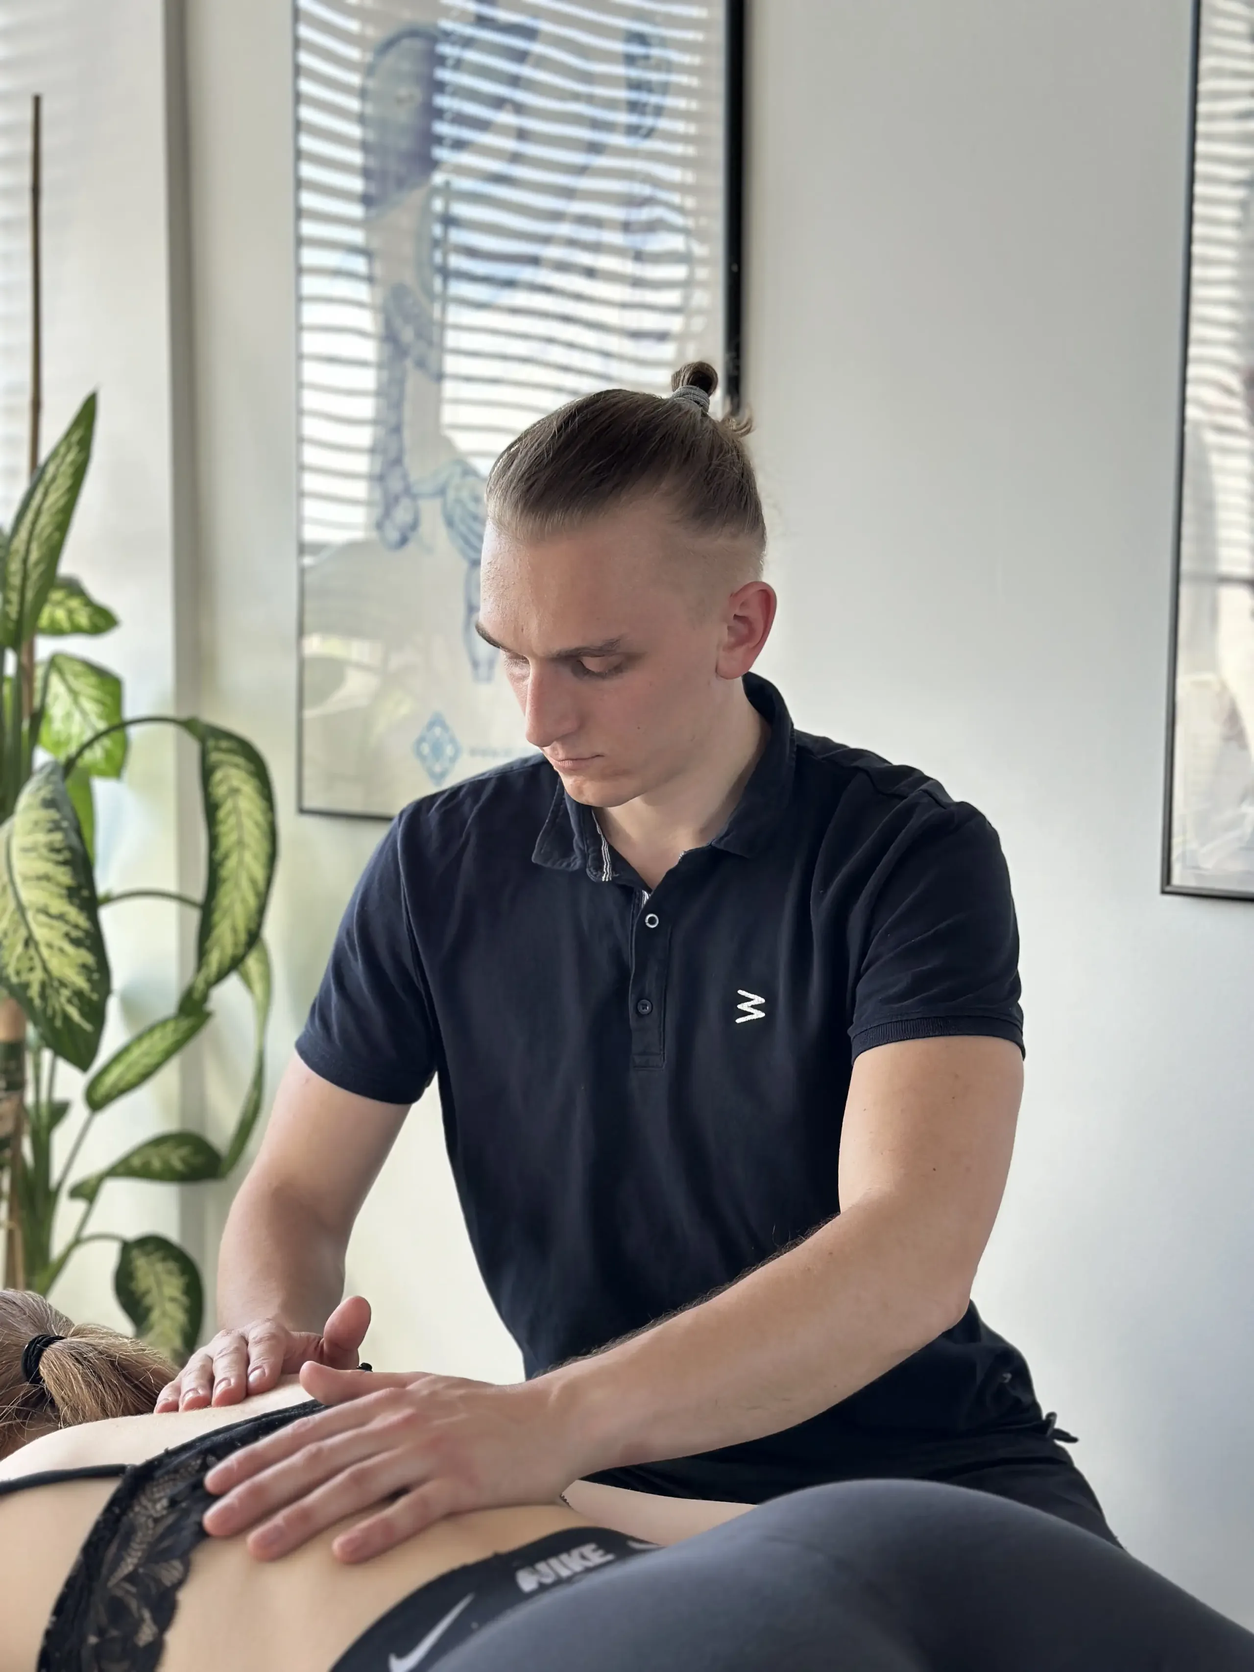
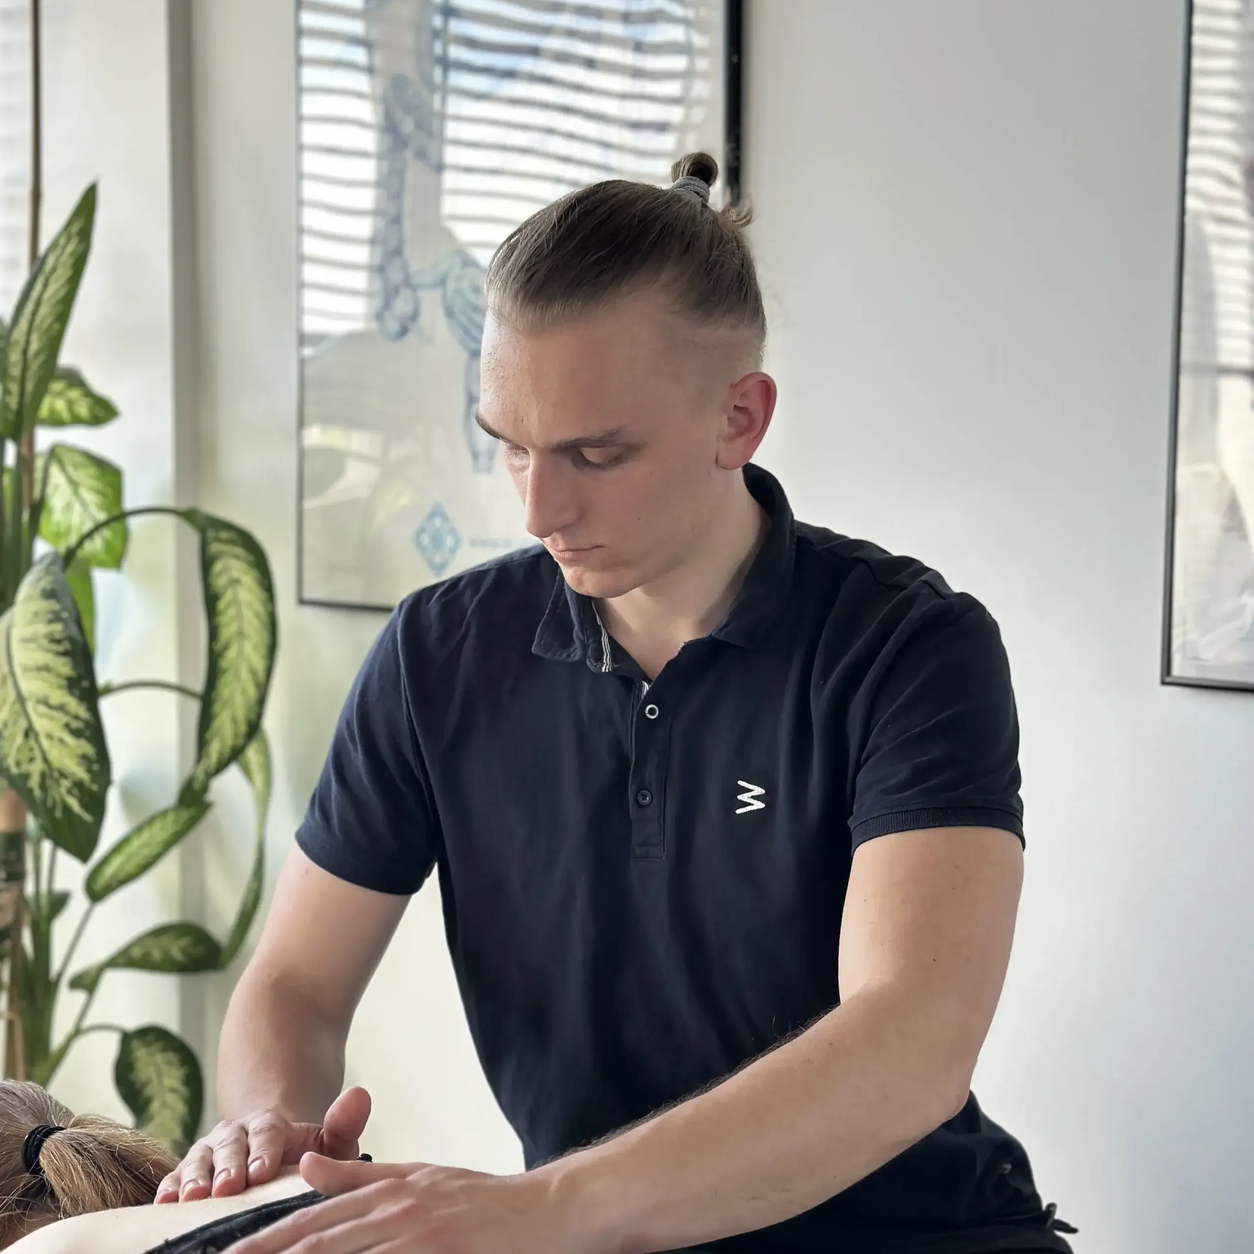
perf: /masaz RWD, image loading and structured data
Page overflow was already zero at all 23 widths from 320 to 1920 and
stayed zero. Every fault on this page was inside a box, which is why none
of them had been seen.

A quoted review contains kobido/fizjoterapeutyczne/relaksacyjne, 38
characters with no space and no default break opportunity at a slash, so
its min-content width is 335px. As a shrink-to-fit flex item the
paragraph took that width whatever the slide was and overran a 252px
slide by 66px at a 1024 viewport, printing fragments of itself over the
testimonial beside it. The copy is quoted verbatim, so the fix is CSS.

break-words alone does not do it, and that is the reusable part: a
browser ignores overflow-wrap: break-word when it computes an element's
min-content contribution, so the item is still sized to the unbreakable
word and overflows without ever breaking it. The width has to be pinned
too. The same pair goes onto SectionHeading, where at 320 the container's
content box is 288px while "kompleksowego" needs 317px and "KLASYCZNY"
303px, and both were sliced by the viewport edge.

Accordion's squareMedia only applied lg:aspect-square; below that the box
fell back to min-h-[18rem] and measured 720x288 at a 768 viewport, a
2.5:1 letterbox that keeps a band across the chest and crops the head
off, which is the opposite of what the flag is for. It is square at every
width now, matching the reference's own unprefixed ratio1-1. TextMedia's
[…]

diff --git a/src/app/[locale]/masaz/page.tsx b/src/app/[locale]/masaz/page.tsx
@@ -9,7 +9,9 @@ import { TextMedia } from "@/components/centrum/TextMedia";
 import { Accordion, type AccordionItemData } from "@/components/centrum/Accordion";
 import { TestimonialCarousel, type Testimonial } from "@/components/centrum/TestimonialCarousel";
 import { NewsletterSignup } from "@/components/centrum/NewsletterSignup";
+import { blurFor } from "@/lib/static-blur";
 import { pageMetadata } from "@/lib/metadata";
+import { breadcrumbJsonLd, serviceJsonLd } from "@/lib/structured-data";
 
 type Section = { heading: string; body: string; image: string };
 type Person = { name: string; role: string; body: string; image: string };
@@ -17,7 +19,15 @@ type Person = { name: string; role: string; body: string; image: string };
 export async function generateMetadata({ params }: { params: Promise<{ locale: string }> }) {
   const { locale } = await params;
   const t = await getTranslations({ locale, namespace: "Massage" });
-  return pageMetadata({ locale, path: "/masaz", title: t("title") });
+  return pageMetadata({
+    locale,
+    path: "/masaz",
+    // A separate, longer title for the tab and the search result: the on-page `<h1>` keeps the
+    // one-word "Masaż", which as a `<title>` carried no locality and no treatment name.
+    title: t("seoTitle"),
+    // The route shipped a title and nothing else, so no `og:description` either.
+    description: t("metaDescription"),
+  });
 }
 
 type PageProps = { params: Promise<{ locale: string }> };
@@ -42,6 +52,7 @@ export default async function MassagePage({ params }: PageProps) {
   // Enables static rendering for this route; see the note in [locale]/layout.tsx.
   setRequestLocale(locale);
   const t = await getTranslations("Massage");
+  const tCommon = await getTranslations("common");
   const tFooter = await getTranslations("Footer");
 
   const sections = t.raw("sections") as Section[];
@@ -54,10 +65,52 @@ export default async function MassagePage({ params }: PageProps) {
     heading: person.name,
     body: `${person.role}\n\n${person.body}`,
     image: person.image,
+    // `Accordion` is a client component and `static-blur` is server-only, so the placeholder
+    // travels as data; see the note on `AccordionItemData.imageBlur`.
+    imageBlur: blurFor(person.image),
+  }));
+
+  /** The four treatments, each a named variant of the one service rather than a page of its own. */
+  const variants = sections.map((section) => ({
+    // Trailing full stops are how this copy is written ("Masaż klasyczny."); a schema `name` reads
+    // better without one, and it is the same string either way.
+    name: section.heading.replace(/\.$/, ""),
+    path: "/masaz",
   }));
 
   return (
     <>
+      {/* A `Service` naming the four treatments, plus the trail back to the homepage. Both hang off
+        * the sitewide business by `@id`; see `src/lib/structured-data.ts` for why the catalogue
+        * carries no `Offer`: the prices live on /cennik and this page states none. */}
+      <script
+        type="application/ld+json"
+        dangerouslySetInnerHTML={{
+          __html: JSON.stringify(
+            serviceJsonLd(locale, {
+              name: t("title"),
+              description: t("metaDescription"),
+              path: "/masaz",
+              city: tFooter("addressLine3").replace(/^[0-9-]+\s*/, "").split(",")[0],
+              variants,
+            }),
+          ),
+        }}
+      />
+      <script
+        type="application/ld+json"
+        dangerouslySetInnerHTML={{
+          __html: JSON.stringify(
+            breadcrumbJsonLd(
+              [
+                { name: tCommon("breadcrumbHome"), path: "/" },
+                { name: t("title"), path: "/masaz" },
+              ],
+              locale,
+            ),
+          ),
+        }}
+      />
       <PageHero
         title={t("title")}
         titleSize="display"

diff --git a/src/components/centrum/TestimonialCarousel.tsx b/src/components/centrum/TestimonialCarousel.tsx
@@ -54,7 +54,18 @@ export function TestimonialCarousel({ heading, items }: TestimonialCarouselProps
               <span aria-hidden className="font-serif text-5xl leading-none text-brand-navy">
                 &ldquo;
               </span>
-              <p className="text-body">{item.quote}</p>
+              {/* These are real reviews and one contains "kobido/fizjoterapeutyczne/relaksacyjne",
+                * 38 characters with no space and no default break opportunity at a slash. Its
+                * min-content width is 335px, so it overran a 252px slide by 66px at a 1024 viewport
+                * and painted fragments of itself across the neighbouring testimonial. The copy is
+                * quoted verbatim, so the fix belongs here.
+                *
+                * **`w-full` is half the fix.** `break-words` (`overflow-wrap: break-word`) is
+                * ignored when the browser computes an element's min-content contribution, so as a
+                * shrink-to-fit flex item this paragraph still got sized to that 335px word and
+                * simply overflowed without ever breaking it. Pinning it to the slide is what forces
+                * the break. Inert for every quote that already fits. */}
+              <p className="w-full break-words text-body">{item.quote}</p>
               {item.name ? (
                 <footer className="text-label font-light uppercase tracking-[1px]">{item.name}</footer>
               ) : null}

diff --git a/src/components/ui/SectionHeading.tsx b/src/components/ui/SectionHeading.tsx
@@ -74,7 +74,18 @@ export function SectionHeading({
     <Tag
       style={style}
       className={cn(
-        "font-normal text-brand-navy",
+        // A floor, not a style: at a 320 viewport the container's content box is 288px and a single
+        // Polish word at the 39.5px mobile step needs more than that ("kompleksowego" 317px,
+        // "KLASYCZNY" 303px), so the heading was sliced off by the viewport edge on /masaz.
+        // Wrapping cannot save a single word, so it has to be allowed to break.
+        //
+        // **`w-full` is half of it.** `break-words` is ignored when the browser computes an
+        // element's min-content contribution, so a heading that is a shrink-to-fit flex item (every
+        // `CenteredBand`, every `TextMedia` column) was still sized to that long word and overflowed
+        // without breaking. Both are inert wherever the longest word already fits, and `display`
+        // sizes are untouched in practice: they carry `whitespace-nowrap` and are fitted by
+        // container query, and they already laid out full width.
+        "w-full break-words font-normal text-brand-navy",
         uppercase && "uppercase",
         // Fitted headings stay on one line, matching the reference's `wsnw`.
         chars > 0 && "whitespace-nowrap",

diff --git a/src/components/centrum/Accordion.tsx b/src/components/centrum/Accordion.tsx
@@ -172,8 +172,13 @@ function AccordionRow({
             {item.image ? (
               <div
                 className={cn(
-                  "relative min-h-[18rem] w-full",
-                  squareMedia ? "lg:aspect-square lg:min-h-0" : "lg:min-h-full",
+                  "relative w-full",
+                  // Square at **every** width, not just from `lg`. The `min-h-[18rem]` fallback made
+                  // this box 720x288 at a 768 viewport, a 2.5:1 letterbox: a portrait shown there
+                  // keeps a horizontal band across the chest and crops the head off entirely, which
+                  // is the opposite of what `squareMedia` exists to prevent. The reference's own
+                  // `ratio1-1` carries no breakpoint prefix either.
+                  squareMedia ? "aspect-square" : "min-h-[18rem] lg:min-h-full",
                 )}
               >
                 <Image

diff --git a/src/components/centrum/TextMedia.tsx b/src/components/centrum/TextMedia.tsx
@@ -89,7 +89,10 @@ export function TextMedia({
 
   return (
     <section className="border-t border-brand-navy-soft bg-background">
-      <Container className="grid gap-8 lg:grid-cols-2 lg:items-stretch lg:gap-16">
+      {/* `grid-cols-1` is not redundant: with no base column count the single implicit track is
+        * `auto`, floored at the widest word in the cell, and at a 320 viewport this row measured
+        * 303px inside a 288px container. Inert from 360 up. */}
+      <Container className="grid grid-cols-1 gap-8 lg:grid-cols-2 lg:items-stretch lg:gap-16">
         {imagePosition === "left" ? (
           <>
             {imageBlock}

diff --git a/docs/migration-tracker.md b/docs/migration-tracker.md
@@ -146,7 +146,53 @@ Two things about this app's shape made it harder than it looks, both worth knowi
 | Scraped route | Target route | Components | i18n | Visual QA | Status |
 |---|---|---|---|---|---|
 | `/cennik/` | `/cennik/` | Reused: PageHero, Accordion (9 price rows; the component gained `cta`/`note`/`groups` and now `panelHeading` for this page). **No newsletter block**: the reference has none here | PL: done / EN: done | Two-way check plus a dedicated price audit, all 46 distinct figures verified present; re-verified against the live site 2026-07-26 | Bilingual |
-| `/masaz/` | `/masaz/` | Built 2026-07-28. Hero, intro band, four treatment panels (all text-left / image-right, **no alternation**: the reference gives all four identical wrapper classes), team accordion of three therapists, testimonial carousel, contact block with the brand watermark. **The reference's six WooCommerce buttons are deliberately gone**, see the note below | PL: done / EN: done | Compared block by block against the mirror: **53 of 54** non-shop content chunks present, 10 of 10 content images, bios carry the reference's own paragraph breaks. The one gap is `ZAMKNIJ`, which our accordion renders only when a row is open (React) where the reference ships both labels and toggles in CSS | Bilingual |
+| `/masaz/` | `/masaz/` | Built 2026-07-28. Hero, intro band, four treatment panels (all text-left / image-right, **no alternation**: the reference gives all four identical wrapper classes), team accordion of three therapists, testimonial carousel, contact block with the brand watermark. **The reference's six WooCommerce buttons are deliberately gone**, see the note below | PL: done / EN: done | Compared block by block against the mirror: **53 of 54** non-shop content chunks present, 10 of 10 content images, bios carry the reference's own paragraph breaks. The one gap is `ZAMKNIJ`, which our accordion renders only when a row is open (React) where the reference ships both labels and toggles in CSS. **RWD/media/SEO pass 2026-07-30**, see the notes below | Bilingual |
+
+### `/masaz` RWD, media and SEO, 2026-07-30
+
+Swept at 23 widths from 320 to 1920, every therapist row opened at six of them.
+`scrollWidth === clientWidth` at all 23 before and after; the faults were all inside boxes, which
+is why nobody had seen them.
+
+- **A quoted review was painting across its neighbour.** One Google review contains
+  `kobido/fizjoterapeutyczne/relaksacyjne`, 38 characters with no space and no default break
+  opportunity at a slash, so its min-content width is 335px. As a shrink-to-fit flex item the
+  paragraph took that width whatever the slide was, and overran a 252px slide by **66px at a 1024
+  viewport**, printing fragments of itself over the testimonial next to it. The copy is quoted
+  verbatim, so `w-full break-words` on the quote is the fix.
+- **`break-words` on its own would not have fixed it, and this is the reusable part.** A browser
+  ignores `overflow-wrap: break-word` when it computes an element's min-content contribution, so a
+  shrink-to-fit flex item is still *sized* to the unbreakable word and simply overflows without ever
+  breaking it. The width has to be pinned as well: `w-full break-words`. The same pair went onto
+  `SectionHeading`, where at a 320 viewport "kompleksowego" (317px) and "KLASYCZNY" (303px) did not
+  fit the container's 288px content box and were sliced by the viewport edge.
+- **The therapist portraits were a letterbox on tablets.** `Accordion`'s `squareMedia` only applied
+  `lg:aspect-square`, and below that the box fell back to `min-h-[18rem]`: **720x288 at a 768
+  viewport, 2.5:1**, which keeps a band across the chest and crops the head off entirely. That is the
+  exact thing the flag exists to prevent. Square at every width now, matching the reference's own
+  unprefixed `ratio1-1`.
+- **`TextMedia`'s grid took `grid-cols-1`**, without which its single implicit `auto` track was
+  floored at the widest word and the row measured 303px inside a 288px container at 320.
+- **Four source images were carrying rows the page can never display**, so
+  `scripts/crop-to-display-aspect.mjs` crops them to the tallest box each one appears in: the hero
+  from 2:3 to the 4:3 of `PageHero`'s narrowest breakpoint, two portraits to the square the accordion
+  now uses. Centred, so it is exactly the region `object-cover` was already painting. **33 to 36% off
+  the hero at every width, 20 to 21% off one portrait, 16 to 18% off the other, 16% across the four
+  files.** `wiktoria-wysocka.webp` is already square and is left alone. Quality 80 was picked by
+  measurement, not taste: it reproduces the mirror's own bytes per pixel, and RMSE against the cropped
+  original is 1.20 to 1.73 on 0-255, the same band as the blog's `cardWide` pre-crop.
+- **Blur placeholders** now cover `public/images/masaz` (map 91 entries), with the three accordion
+  portraits taking theirs as an `imageBlur` prop because `static-blur` is server-only. The two
+  full-bleed plates (`hub-mark`, `jak-skorzystac`) are deliberately left without one: both are blank
+  cream at under 10KB and arrive before a placeholder would help, the same call `CenteredBand`
+  already documents.
+- **SEO:** an SEO title and a meta description on a route that had a bare one-word `<title>` and no
+  description at all, plus `Service` with the four treatments as an `OfferCatalog` and a
+  `BreadcrumbList`. The catalogue entries all point at `/masaz` because none of the four has a page
+  of its own; prices stay out, they live on `/cennik`.
+- **Measured, deliberately not fixed:** at 320 two `shrink-0` rows in the shared header and footer
+  are 7px and 13px wider than the container's content box. They are not this page's, they are
+  contained by `overflow-x: clip`, and nothing is visibly cut.
 | `/kontakt/` | `/kontakt/` | Reused: PageHero (display title, **left**-aligned), MeetUsCta. **The reference page has no content of its own**, see the note below | PL: done / EN: done | Composed from copy already verified elsewhere; nothing invented | Bilingual |
 | `/instrukcja/` | `/instrukcja/` | New: none. Reused: PageHero, StatementSection ×8 (3 of them a 3-up bullet row), FullBleedImage ×4, CenteredBand, MediaCardCta ×2. 7 images copied. No newsletter block: the reference has none | PL: done / EN: done | Two-way check vs. the live site: 0 missing headings | Bilingual |
 

diff --git a/AI_NOTES.md b/AI_NOTES.md
@@ -13,6 +13,18 @@
 
 -->
 
+## 2026-07-30: /masaz RWD, media, lazy loading, structured data
+
+- **Done:** `/masaz` swept at 23 widths from 320 to 1920, with every therapist row opened at six of them. Page overflow was already zero at all 23 and stayed zero; **every fault on this page was inside a box**, which is why none had been seen. Fixed: a quoted review painting across its neighbour, therapist portraits letterboxed to 2.5:1 on tablets, and two headings sliced by the viewport edge at 320. Four source images cropped to the aspect the page actually displays, blur placeholders for `public/images/masaz`, SEO title + description + `Service`/`BreadcrumbList` JSON-LD.
+- **`break-words` does nothing for a shrink-to-fit flex item, and that cost real time.** A browser **ignores `overflow-wrap: break-word` when computing min-content contribution**, so the element is still *sized* to the unbreakable word and overflows without ever breaking it. First attempt added `break-words` alone to the testimonial and to `SectionHeading` and **every measurement came back byte-identical**. The pair is `w-full break-words`: pin the width, then allow the break. Same shape as the `w-full` on `StatementSection` from the `/bodylab` pass, and it is now on `SectionHeading` itself, so every heading on the site has the floor.
+- **What it was breaking:** one Google review contains `kobido/fizjoterapeutyczne/relaksacyjne` — 38 characters, no space, and a slash is not a break opportunity — giving the paragraph a 335px min-content width. It overran a 252px carousel slide by **66px at 1024** and printed fragments of itself over the testimonial beside it. And at 320 the container's content box is 288px while "kompleksowego" needs 317px and "KLASYCZNY" 303px.
+- **`squareMedia` was only square from `lg`.** Below that `Accordion` fell back to `min-h-[18rem]`, so at a 768 viewport a portrait sat in a **720x288, 2.5:1** box: a band across the chest with the head cropped off, which is the exact failure the flag was added to prevent. The reference's own `ratio1-1` carries no breakpoint prefix.
+- **New: `scripts/crop-to-display-aspect.mjs`.** `next/image` picks a variant by **width only**, so a 2560x3840 portrait in a box the page renders at 4:3 still ships every row and `object-cover` throws two thirds away. Cropping the source to the tallest box it appears in is **visually lossless by construction** (cover centres, a centred crop keeps exactly those pixels) and saves at every breakpoint: **33-36% off the hero, 20-21% and 16-18% off two portraits, 16% across the four files**, 165KB off the repo. This complements, and does not contradict, the earlier "do not re-encode sources" note: shrinking *width* is pointless because the optimizer already resizes, removing *rows nobody can see* is not.
+- **Quality 80 came from measurement.** It reproduces the mirror's own bytes per pixel (0.95 to 1.14x); RMSE against the cropped original is 1.20 to 1.73 on 0-255, the same band as the blog's `cardWide`. Quality 90, tried first, made one file **16% larger than the uncropped original**.
+- **Measured:** headed browser at 390 fetches **34.1KB of images on arrival** (hero plus the first treatment photo) and 153.3KB for the whole page after scrolling all of it; 8 blur placeholders and 10 lazy images in the served HTML.
+- **Watch out, three environment traps in one session:** (1) `.next/cache/images` survives a rebuild and is keyed in a way that kept serving **pre-crop variants**, so the first "after" measurements showed portraits still at 0.75 — clear that directory after touching anything under `public/images`. (2) Handing sharp a **path** rather than a buffer leaves the file open in its cache, and the overwrite then fails on Windows with `EPERM`/`UNKNOWN` on one file out of three, which reads exactly like a permissions problem and is not. (3) The Postgres container was found **stopped** mid-session and every build failed with "cannot connect to Postgres"; `docker compose up -d` restarted the existing container with its data intact — never add `-v`.
+- **Deliberately not fixed:** at 320 two `shrink-0` rows in the shared header and footer are 7px and 13px wider than the container's content box, contained by `overflow-x: clip` and not visibly cut. The homepage still shows its own 12px residual at 360 from the closed drawer, unchanged by any of this.
+
 ## 2026-07-30: media create — no sidebar, short copy, back to library
 
 - **Done:** create/edit form has no right Placeholder column (`blurDataURL` is `admin.hidden`). Field labels/descriptions tightened to Admin UI copy rules. Successful create redirects to the library list (`/admin/c/media`) via `MediaSaveButton` + `MediaGotoLibrary` session marker.

diff --git a/CLAUDE.md b/CLAUDE.md
@@ -76,6 +76,7 @@ Check here before building anything: don't duplicate what exists.
 | Blog teasers on service pages | `src/components/centrum/BlogTeasers.tsx` | Three posts from a matching category at the foot of five service pages |
 | Image placeholders (LQIP) | `scripts/import-blur-placeholders.ts`, `blurDataURL` on Media | Harvested from the mirror's own `<picture>` backgrounds. 189/230 covered |
 | Image placeholders for static pages | `scripts/generate-blur-placeholders.mjs`, `src/lib/static-blur.ts` | The blog's come from Payload; the marketing pages have no CMS, so theirs are generated into `static-blur.json` (18 entries, 3.4KB). **Server components only:** a client component takes the string as a prop, see `FullBleedVideo` |
+| Cropping a static image to the aspect it is shown at | `scripts/crop-to-display-aspect.mjs` | `next/image` picks a variant by **width only**, so a 2:3 portrait in a 4:3 box still ships every row and `object-cover` throws them away. Crops the source to the tallest box it appears in, centred, so it is visually lossless. **The manifest in the script is the contract:** make a component's aspect ratio taller and the crop becomes wrong. `DRY=1` to preview |
 | Hero video encodes | `scripts/optimize-hero-video.mjs`, `public/videos/` | 720px and 1280px VP9/h264 pairs plus a poster, no audio. **8388KB down to 734KB on a phone.** `hero-source.mp4` is the gitignored input |
 | Structured data (JSON-LD) | `src/lib/structured-data.ts` | `HealthAndBeautyBusiness` sitewide, `BlogPosting` + `BreadcrumbList` per post. Rendered via `dangerouslySetInnerHTML`, which is the documented App Router way |
 | RSS feed | `src/app/feed.xml/route.ts` | Polish only, deliberately. Lives outside `[locale]` so no locale prefix is negotiated onto it |
